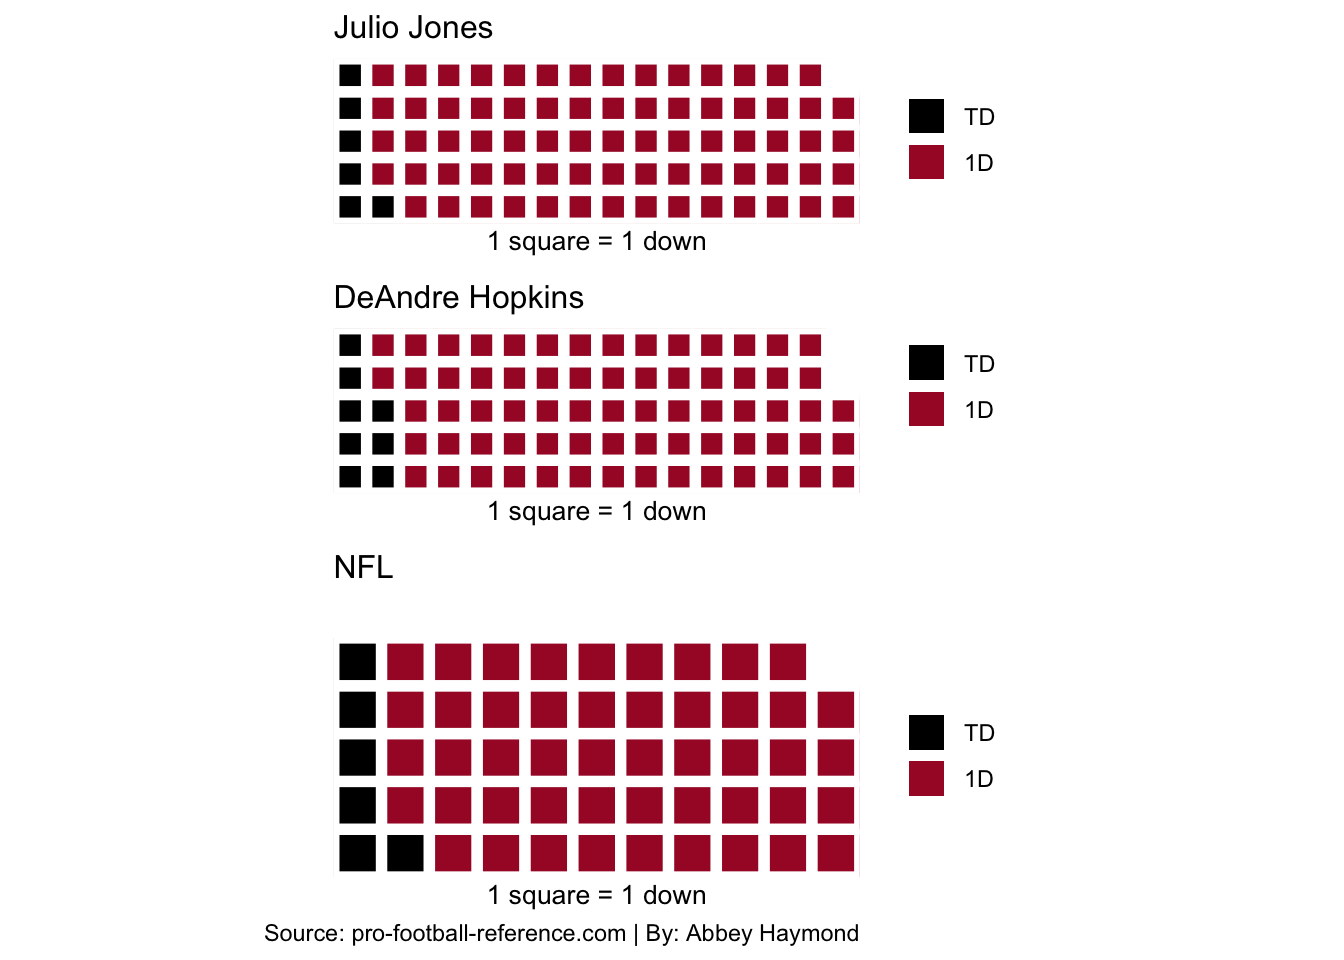
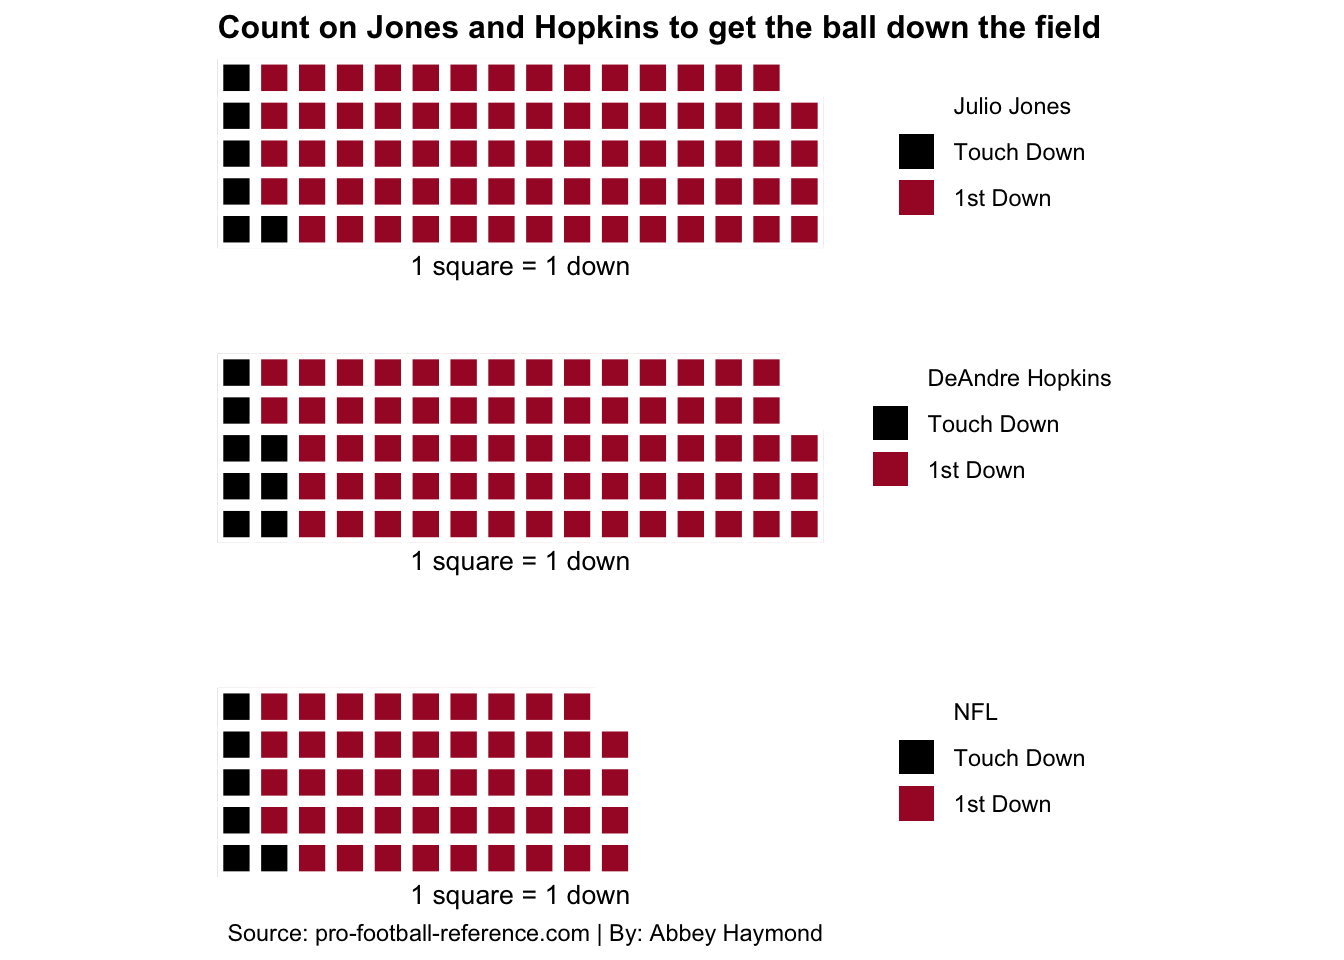
update

Changed region(s): [[0.1562, 0.0, 0.8438, 0.5938], [0.1562, 0.6562, 0.8125, 1.0]]

diff --git a/2021/04/14/is-deandre-hopkins-better-than-julio-jones/index.html b/2021/04/14/is-deandre-hopkins-better-than-julio-jones/index.html
@@ -89,7 +89,8 @@
 library(waffle)</code></pre>
 <p>In May of 2020, Arizona Cardinals receiver, DeAndre Hopkins, joined the Jalen &amp; Jacoby Show. He claimed that he is the best wide receiver in the NFL and compared himself to Julio Jones. Is he really better than “Jet” Jones?</p>
 <p>I took a look at their numbers throughout their careers.</p>
-<pre class="r"><code>NFLreceiving &lt;- read_csv(&quot;~/Desktop/Sports Data/Project/nflreceiving.csv&quot;) %&gt;% mutate(CtchPct = as.numeric(gsub(&quot;%&quot;, &quot;&quot;, CtchPct)))</code></pre>
+<pre class="r"><code>NFLreceiving &lt;- read_csv(&quot;~/Desktop/Sports Data/Project/nflreceiving.csv&quot;) %&gt;%
+  mutate(CtchPct = as.numeric(gsub(&quot;%&quot;, &quot;&quot;, CtchPct)))</code></pre>
 <pre><code>## 
 ## ── Column specification ────────────────────────────────────────────────────────
 ## cols(
@@ -100,17 +101,22 @@ library(waffle)</code></pre>
 ##   CtchPct = col_character()
 ## )
 ## ℹ Use `spec()` for the full column specifications.</code></pre>
-<pre class="r"><code>JJreceiving &lt;- NFLreceiving %&gt;% filter(Player == &quot;Julio Jones&quot;)
-DHreceiving &lt;- NFLreceiving %&gt;% filter(Player == &quot;DeAndre Hopkins&quot;)</code></pre>
+<pre class="r"><code>JJreceiving &lt;- NFLreceiving %&gt;%
+  filter(Player == &quot;Julio Jones&quot;)
+
+DHreceiving &lt;- NFLreceiving %&gt;%
+  filter(Player == &quot;DeAndre Hopkins&quot;)</code></pre>
 <p>To start, I am working with NFL offense data from the top 50 players every season, going back to Julio Jones’ rookie year. I focused on the average yards and receptions that the two receivers have throughout their careers.</p>
 <pre class="r"><code>RecAvg &lt;- NFLreceiving %&gt;%
   group_by(Player) %&gt;%
   summarise(
     AvgYds = mean(Yds),
     AvgRec = mean(Rec))
+
 JJrecAvg &lt;- JJreceiving %&gt;% summarise(
   AvgYds = mean(Yds),
   AvgRec = mean(Rec))
+
 DHrecAvg &lt;- DHreceiving %&gt;% summarise(
   AvgYds = mean(Yds),
   AvgRec = mean(Rec))</code></pre>
@@ -126,7 +132,7 @@ DHrecAvg &lt;- DHreceiving %&gt;% summarise(
   labs(
     x=&quot;Average Receptions&quot;, 
     y=&quot;Average Yards&quot;, 
-    title=&quot;Jones and Hopkins are both elite players in the NFL&quot;, 
+    title=&quot;Jones and Hopkins are elite receivers in the NFL&quot;, 
     subtitle=&quot;Julio Jones moved and received the ball slightly more than DeAndre Hopkins. &quot;, 
     caption=&quot;Source: pro-football-reference.com | By: Abbey Haymond&quot;) +
   theme_minimal() + 
@@ -140,17 +146,41 @@ DHrecAvg &lt;- DHreceiving %&gt;% summarise(
 This chart shows that both Jones and Hopkins are close to the top right portion of the model, which tells me that they are higher in comparison to other top players in the league.</p>
 <p>Julio Jones is slightly higher than DeAndre Hopkins, but they are comparable when it comes to how much they caught and moved the ball. We can tell that they are both exceptional wide receivers.</p>
 <p>Another way to identify a good receiver is by their number of targets. The targeted receiver tends to be the best receiver on the field for that play; the better a player does his job, the more likely he is going to be the target.</p>
-<p>I am looking at the same data and select the seasons that both Jones and Hopkins played consistently. I focused on the number of targets that they had those season to the rest of the league.</p>
+<p>I am looking at the same data and select the seasons that both Jones and Hopkins played a majority of the games. I focused on the number of targets that they had those season to the rest of the league.</p>
 <pre class="r"><code>TgtAvg &lt;- NFLreceiving %&gt;%
   group_by(Season) %&gt;% summarise(
-    AvgTgt = mean(Tgt))%&gt;%
-  select(Season, AvgTgt) %&gt;% subset(Season&gt;2013) %&gt;% subset(Season&lt;2020)
-JJreceivingclean &lt;- JJreceiving %&gt;% select(Season, Tgt) %&gt;% subset(Season&gt;2013)
-DHreceivingclean &lt;- DHreceiving %&gt;% select(Season, Tgt) %&gt;% subset(Season&lt;2020)</code></pre>
+    AvgTgt = mean(Tgt)) %&gt;%
+  select(Season, AvgTgt) %&gt;%
+  subset(Season&gt;2013) %&gt;%
+  subset(Season&lt;2020)
+
+JJreceivingclean &lt;- JJreceiving %&gt;%
+  select(Season, Tgt) %&gt;%
+  subset(Season&gt;2013)
+
+DHreceivingclean &lt;- DHreceiving %&gt;%
+  select(Season, Tgt) %&gt;%
+  subset(Season&lt;2020)
+
+TgtAvg2015 &lt;- TgtAvg %&gt;%
+  select(Season, AvgTgt) %&gt;%
+  subset(Season==2015)
+
+JJreceiving2015 &lt;- JJreceivingclean %&gt;%
+  select(Season, Tgt) %&gt;%
+  subset(Season==2015)
+
+DHreceiving2017 &lt;- DHreceivingclean %&gt;%
+  select(Season, Tgt) %&gt;%
+  subset(Season==2017)</code></pre>
 <p>I looked at Jones’ and Hopkin’s number of targets on average each season and highlighted what each line represents.</p>
 <pre class="r"><code>ggplot() + 
   geom_line(data=TgtAvg, aes(x=Season, y=AvgTgt, group=&quot;Season&quot;), color=&quot;grey&quot;) + 
-  geom_line(data=JJreceivingclean, aes(x=Season, y=Tgt), color=&quot;#A71930&quot;) + scale_x_continuous() + geom_line(data=DHreceivingclean, aes(x=Season, y=Tgt), color=&quot;black&quot;) + scale_x_continuous() + theme_minimal() + 
+  geom_line(data=JJreceivingclean, aes(x=Season, y=Tgt), color=&quot;#A71930&quot;) + scale_x_continuous() +
+  geom_line(data=DHreceivingclean, aes(x=Season, y=Tgt), color=&quot;black&quot;) + 
+  geom_text_repel(data=TgtAvg2015, aes(x=Season, y=AvgTgt, label=&quot;NFL&quot;)) +
+  geom_text_repel(data=JJreceiving2015, aes(x=Season, y=Tgt, label=&quot;Julio Jones&quot;)) +
+  geom_text_repel(data=DHreceiving2017, aes(x=Season, y=Tgt, label=&quot;DeAndre Hopkins&quot;)) + scale_x_continuous() + theme_minimal() + 
   labs(
     x=&quot;Season&quot;, 
     y=&quot;Average Target&quot;, 
@@ -173,33 +203,35 @@ Again, the data for both players are fairly similar. Throughout their careers, t
 <pre class="r"><code>JJdownAvg &lt;- JJreceiving %&gt;% summarise(
     AvgTD = mean(TD),
     Avg1D = mean(`1D`))
+
 DHdownAvg &lt;- DHreceiving %&gt;% summarise(
     AvgTD = mean(TD),
     Avg1D = mean(`1D`))
+
 NFLdownAvg &lt;- NFLreceiving %&gt;% summarise(
     AvgTD = mean(TD),
     Avg1D = mean(`1D`))</code></pre>
 <p>I found that Julio Jones had an average of 6.71 touchdowns and 73.29 first downs each season, while Deandre Hopkins had an average of 8.29 touchdowns and 70.57 first downs. To compare the two to the best in the league, I also found that the top 50 players had an average of 6.23 touchdowns and 48.29 first downs each season.</p>
-<pre class="r"><code>jj &lt;- c(&quot;TD&quot;=6.71, &quot;1D&quot;=73.29)
-dh &lt;- c(&quot;TD&quot;=8.29, &quot;1D&quot;=70.57, 1.14)
-nfl &lt;- c(&quot;TD&quot;=6.23, &quot;1D&quot;=48.29)</code></pre>
+<pre class="r"><code>jj &lt;- c(&quot;Julio Jones&quot; = 0, &quot;Touch Down&quot;= 6.71, &quot;1st Down&quot;= 73.29)
+dh &lt;- c(&quot;DeAndre Hopkins&quot;= 0, &quot;Touch Down&quot;= 8.29, &quot;1st Down&quot;= 70.57, 1.14)
+nfl &lt;- c(&quot;NFL&quot;= 0, &quot;Touch Down&quot;= 6.23, &quot;1st Down&quot;= 48.29, 25.48)</code></pre>
 <p>I charted these stats to compare them to the average of the rest of the league. I paid attention to all the players’ number of touchdowns and first downs to see how effective they are with the ball, on average, each season.</p>
 <pre class="r"><code>iron(
  waffle(jj, 
         rows = 5, 
-        title=&quot;Julio Jones&quot;,
+        title=&quot;Count on Jones and Hopkins to get the ball down the field&quot;,
         xlab=&quot;1 square = 1 down&quot;, 
-        colors = c(&quot;black&quot;, &quot;#A71930&quot;, &quot;white&quot;)) +
+        colors = c(&quot;white&quot;, &quot;black&quot;, &quot;#A71930&quot;, &quot;white&quot;)) +
   theme(
-    plot.title = element_text(size = 12),
+    plot.title = element_text(size = 12, face = &quot;bold&quot;),
     axis.title = element_text(size = 8), 
     plot.subtitle = element_text(size=10),
     panel.grid.minor = element_blank()),
  waffle(dh, 
         rows = 5, 
-        title=&quot;DeAndre Hopkins&quot;,
+        title=&quot;&quot;,
         xlab=&quot;1 square = 1 down&quot;, 
-        colors = c(&quot;black&quot;, &quot;#A71930&quot;, &quot;white&quot;)) +
+        colors = c(&quot;white&quot;, &quot;black&quot;, &quot;#A71930&quot;, &quot;white&quot;)) +
   theme(
     plot.title = element_text(size = 12),
     axis.title = element_text(size = 8), 
@@ -207,9 +239,9 @@ nfl &lt;- c(&quot;TD&quot;=6.23, &quot;1D&quot;=48.29)</code></pre>
     panel.grid.minor = element_blank()),
  waffle(nfl, 
         rows = 5, 
-        title=&quot;NFL&quot;,
+        title=&quot;&quot;,
         xlab=&quot;1 square = 1 down&quot;, 
-        colors = c(&quot;black&quot;, &quot;#A71930&quot;, &quot;white&quot;)) +
+        colors = c(&quot;white&quot;, &quot;black&quot;, &quot;#A71930&quot;, &quot;white&quot;)) +
   theme(
     plot.title = element_text(size = 12),
     axis.title = element_text(size = 8), 
@@ -217,7 +249,7 @@ nfl &lt;- c(&quot;TD&quot;=6.23, &quot;1D&quot;=48.29)</code></pre>
     panel.grid.minor = element_blank()) + 
   labs(subtitle = &quot;&quot;, caption = &quot;Source: pro-football-reference.com | By: Abbey Haymond&quot;))</code></pre>
 <p><img src="/2021/04/14/is-deandre-hopkins-better-than-julio-jones/index_files/figure-html/unnamed-chunk-9-1.png" width="672" />
-And again, to no one’s surprise, we can see that the two receivers have similar results when they receive the ball. They are both doing better than the rest of the league with making touchdowns and first downs.</p>
+And again, to no one’s surprise, we can see that the two receivers have similar results when they receive the ball. They are both doing better than the rest of the league regarding touchdowns and first downs.</p>
 <p>Julio Jones averages slightly higher with his average number of first downs each season. On the other hand, DeAndre Hopkins average a bit more with his average number of touchdowns.</p>
 <p>Just from looking at this data, it is apparent that both Jones and Hopkins are elite wide receivers in the NFL. After comparing the players’ stats, they had similar stats. The data showed that they excelled in all areas, while one player sometimes did slightly better than the other.</p>
 <p>However, this still gives me an answer to my question. While DeAndre Hopkins is comparable to Julio Jones, he is not better than him.</p>
